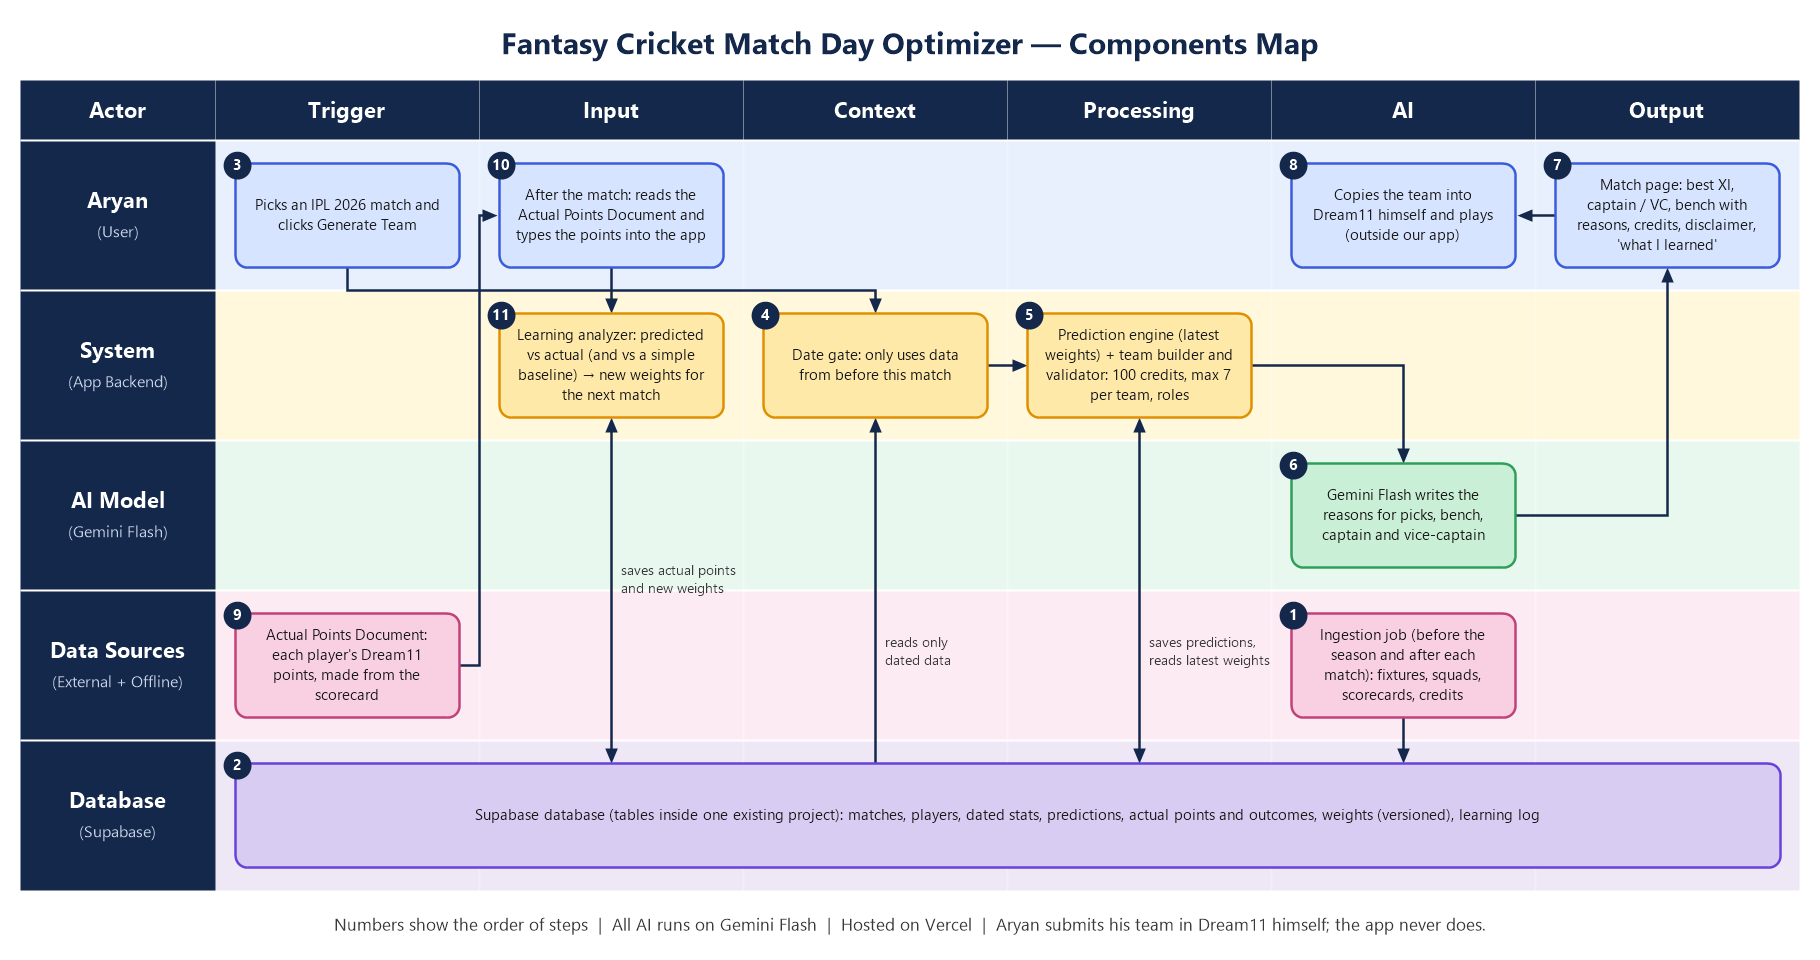
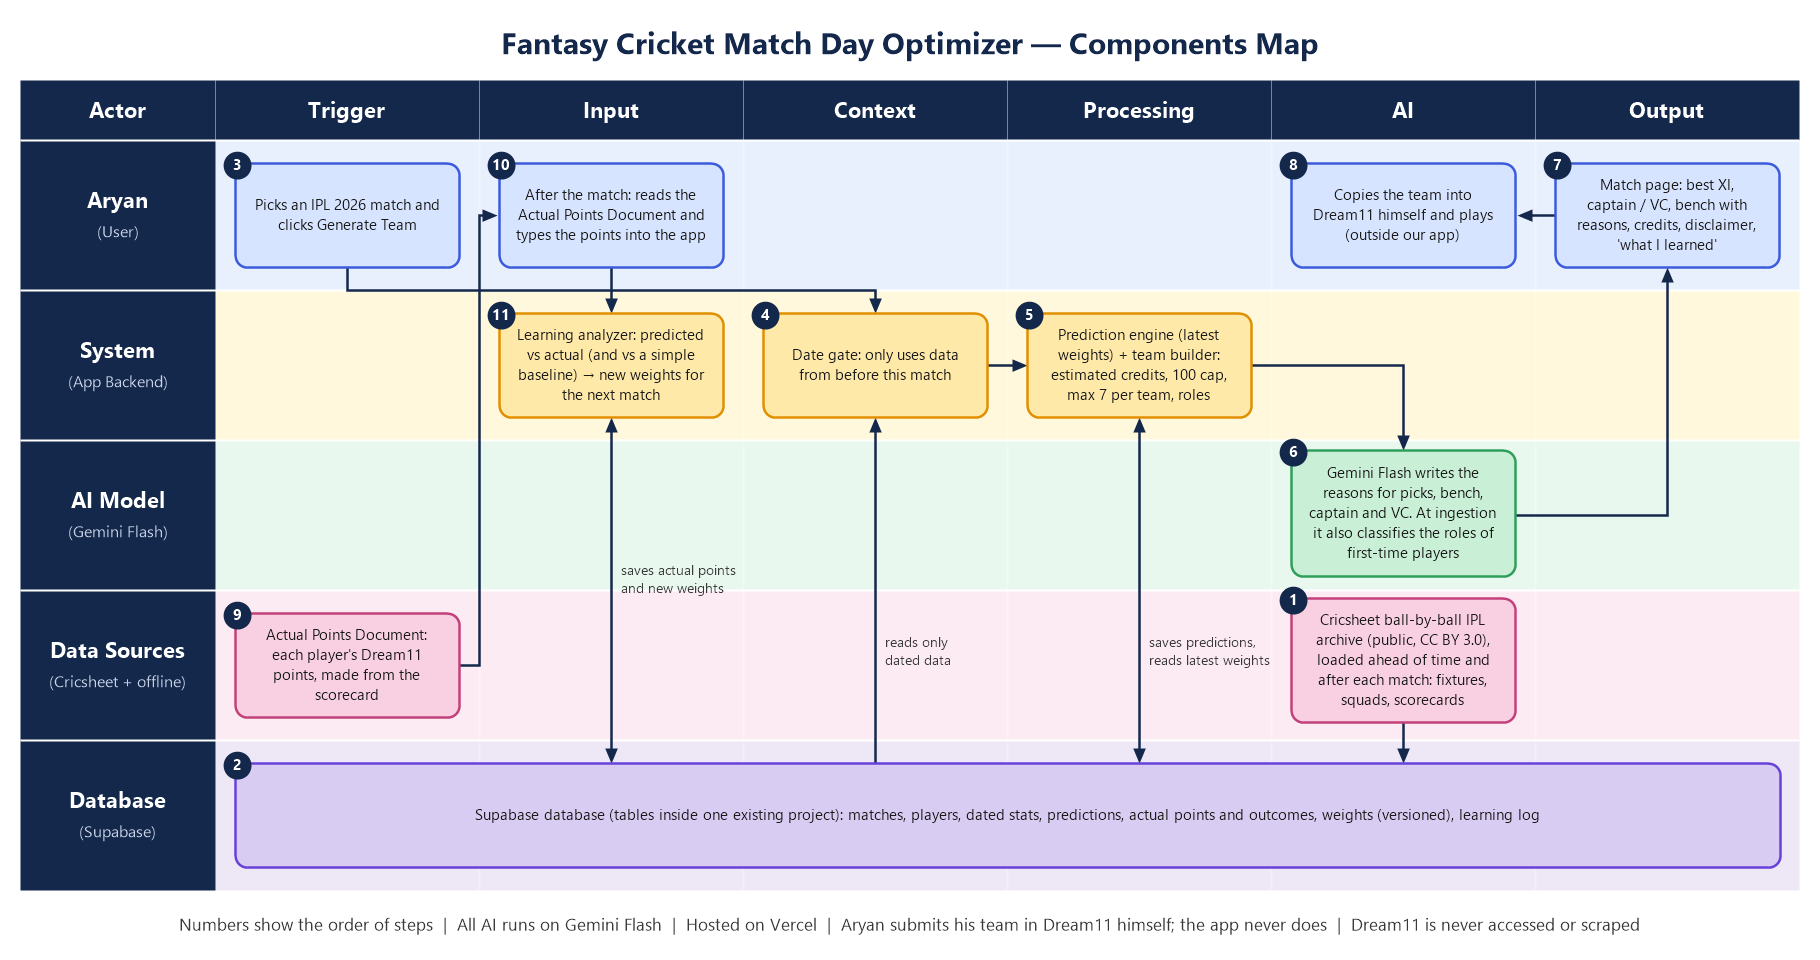
Components Map: name Cricsheet as the data source and correct the credits claim
Card 1 now names the Cricsheet IPL archive (CC BY 3.0) and no longer lists credits, which are
estimated by the prediction engine (card 5). The Gemini card notes it classifies first-time
players' roles at ingestion, and the footer states Dream11 is never accessed or scraped. The
map generator is now in the repo (scripts/make-components-map.ps1) and the README names the
data source under the map.

diff --git a/README.md b/README.md
@@ -6,6 +6,8 @@ Built for the Mesa C4 AI Final (Hard). Live: https://ipl-match-day-optimizer.ver
 
 ![Components Map](docs/components_map.png)
 
+**Data source:** all match data comes from [Cricsheet](https://cricsheet.org) (public ball-by-ball IPL archive, `ipl_male_json.zip`, CC BY 3.0), downloaded once by `scripts/ingest.ts` and loaded into Supabase with match dates; the app never calls Cricsheet while in use. Player roles are inferred from that history (plus a short list of known keepers), with Gemini Flash classifying first-time players. Credits are estimated by the prediction engine. Dream11 itself is never accessed or scraped. The map is regenerated with `scripts/make-components-map.ps1`.
+
 ## How it works
 
 | Step | What happens | Where |
